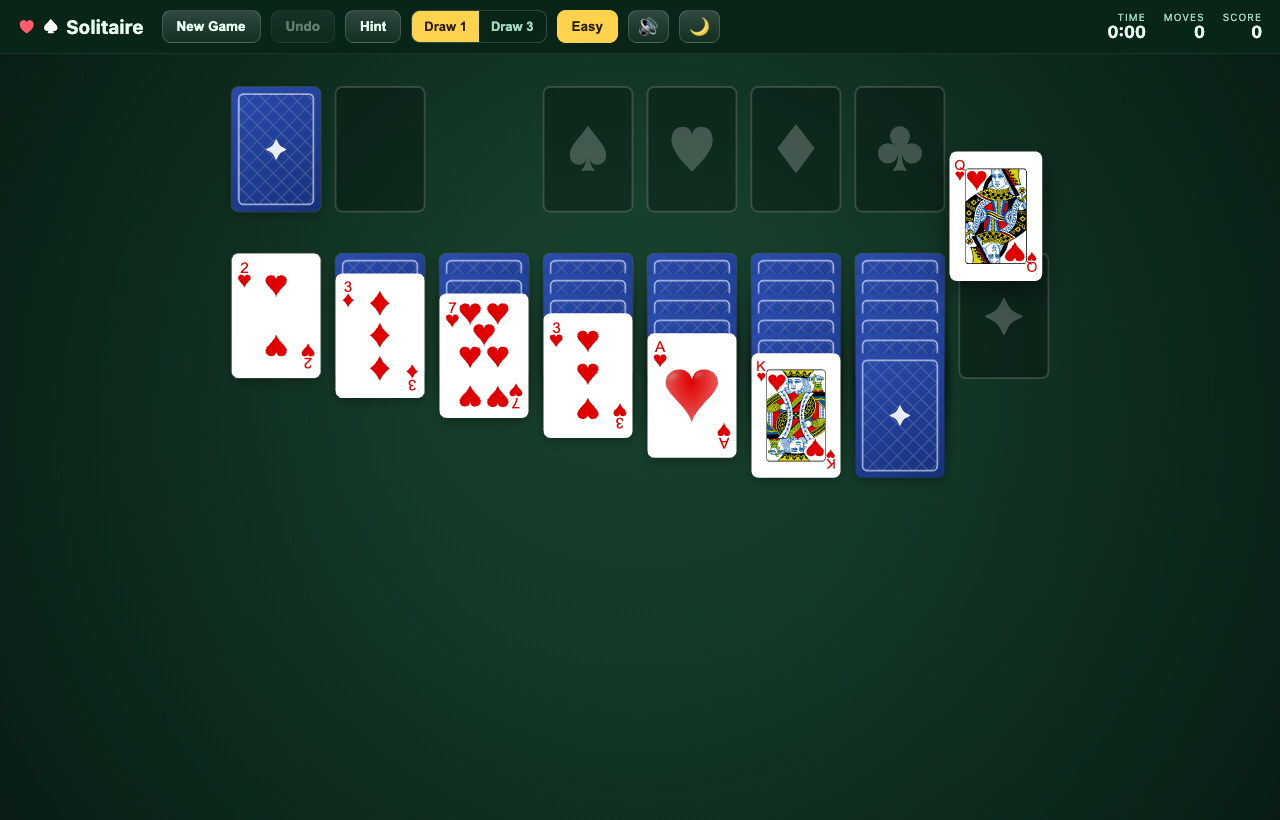
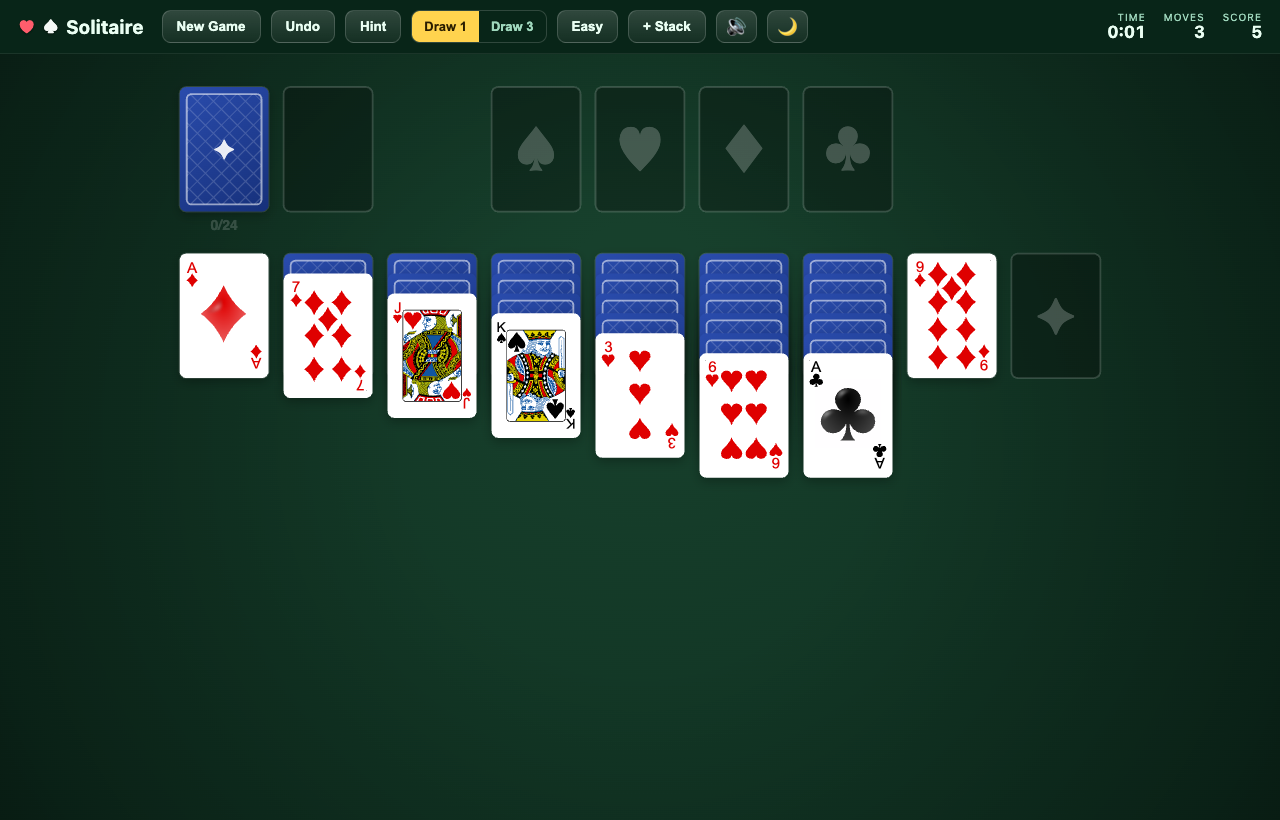
Refresh README screenshots: + Stack spare piles and the new phone layout

diff --git a/README.md b/README.md
@@ -34,7 +34,8 @@ with smooth, physics-flavoured animations throughout. Zero runtime dependencies.
 - 🖱 **Mouse & touch** — drag-and-drop, click-to-draw, and double-click /
   double-tap to auto-send a card to its foundation.
 - 📐 **Responsive** — the board re-lays out to fit any window size, compressing
-  tall columns automatically.
+  tall columns automatically. Phone-portrait screens get a dedicated vertical
+  layout where the piles are listed top-to-bottom and cards fan sideways.
 
 ## Card art
 
@@ -60,13 +61,23 @@ Two independent assists live in the toolbar:
 - **Easy** toggles a friendlier ruleset where **empty columns accept any
   card**, not just Kings.
 - **+ Stack** buys a temporary **✦ parking pile** for **50 points**, added as
-  an extra column on the right of the board. Drag any card or run onto it to
-  park it — the card underneath is revealed and play can continue. Up to
-  three stacks can exist at once; parking on one you've bought is free, and a
-  stack **vanishes once you empty it** (freeing a slot for another). Buying a
-  stack is undoable like any move.
+  an extra column on the right of the board (or an extra row on phones). Drag
+  any card or run onto it to park it — the card underneath is revealed and
+  play can continue. Up to three stacks can exist at once; parking on one
+  you've bought is free, and a stack **vanishes once you empty it** (freeing a
+  slot for another). Buying a stack is undoable like any move.
 
 ![Temporary parking stacks](screenshots/spare-pile.png)
+
+## Phone layout
+
+On phone-sized portrait screens the board transposes to fit the tall, narrow
+viewport: the stock and waste form a header, the foundations run down the left
+edge (anchored to the bottom), and the tableau piles become rows that fan
+rightward — with larger, easier-to-tap cards than squeezing seven columns
+side-by-side. Rotating the phone switches back to the classic column layout.
+
+<img src="screenshots/iphone.png" alt="Phone-portrait layout" width="340">
 
 ## Win celebration
 
